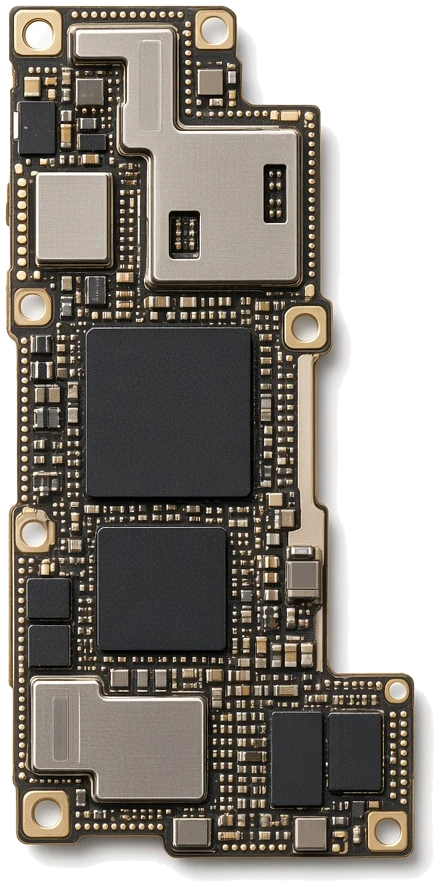
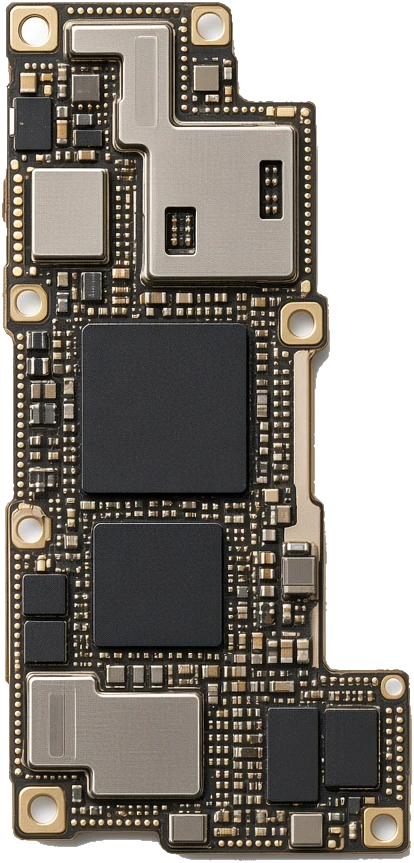
Seat the phone parts in the chassis without the white fringe.
Replace the cut-outs with the halo-free versions and fit each part to the midframe in parent-local millimetres.

diff --git a/content/smartphone.ts b/content/smartphone.ts
@@ -3,8 +3,8 @@ import { paperTheme, type ContentPack } from '../src/theme';
 
 /**
  * Pixel size of a trimmed cut-out, and of the pixels that are actually opaque.
- * A 4px soft margin sits on every side. World size maps the opaque width to
- * millimetres and keeps the file's own aspect.
+ * World size maps an opaque width in millimetres onto that box and keeps the
+ * file's own aspect. These cuts have no soft shadow fringe.
  */
 type Sprite = {
   width: number;
@@ -15,19 +15,19 @@ type Sprite = {
 
 /** `images/smartphone.webp`. The opaque phone is 71.5 mm wide. */
 export const smartphoneSprite = {
-  width: 478,
-  height: 977,
-  opaqueWidth: 470,
-  opaqueHeight: 969,
+  width: 465,
+  height: 951,
+  opaqueWidth: 461,
+  opaqueHeight: 947,
 } as const satisfies Sprite;
 
 export const partSprites = {
-  midframe: { width: 488, height: 985, opaqueWidth: 480, opaqueHeight: 977 },
-  battery: { width: 491, height: 879, opaqueWidth: 483, opaqueHeight: 871 },
-  logicBoard: { width: 439, height: 887, opaqueWidth: 431, opaqueHeight: 878 },
-  cameraModule: { width: 594, height: 521, opaqueWidth: 586, opaqueHeight: 513 },
-  loudspeaker: { width: 439, height: 280, opaqueWidth: 431, opaqueHeight: 272 },
-  hapticMotor: { width: 423, height: 200, opaqueWidth: 415, opaqueHeight: 192 },
+  midframe: { width: 450, height: 943, opaqueWidth: 446, opaqueHeight: 939 },
+  battery: { width: 487, height: 899, opaqueWidth: 483, opaqueHeight: 895 },
+  logicBoard: { width: 414, height: 863, opaqueWidth: 410, opaqueHeight: 859 },
+  cameraModule: { width: 537, height: 500, opaqueWidth: 533, opaqueHeight: 496 },
+  loudspeaker: { width: 383, height: 227, opaqueWidth: 379, opaqueHeight: 223 },
+  hapticMotor: { width: 418, height: 153, opaqueWidth: 418, opaqueHeight: 153 },
 } as const satisfies Record<string, Sprite>;
 
 /** Opaque phone width. World units are millimetres. */
@@ -100,14 +100,14 @@ export const smartphoneObjects: readonly CanvasObject[] = [
     payload: { type: 'group' },
   },
   cutout('midframe', 'images/smartphone/midframe.webp', partSprites.midframe, PHONE_WIDTH_MM, 0, 0, fadeIn, 'internals'),
-  cutout('battery', 'images/smartphone/battery.webp', partSprites.battery, 50, -9.8, 16.6, fadeIn, 'internals'),
+  cutout('battery', 'images/smartphone/battery.webp', partSprites.battery, 40, -12.6, 10.2, fadeIn, 'internals'),
   cutout(
     'logic-board',
     'images/smartphone/logic-board.webp',
     partSprites.logicBoard,
-    26,
+    21,
     19.8,
-    -45.2,
+    -44,
     fadeIn,
     'internals',
   ),
@@ -115,9 +115,9 @@ export const smartphoneObjects: readonly CanvasObject[] = [
     'camera-module',
     'images/smartphone/camera-module.webp',
     partSprites.cameraModule,
-    22,
-    -21.5,
-    -59.5,
+    21,
+    -22,
+    -62.5,
     fadeIn,
     'internals',
   ),
@@ -125,9 +125,9 @@ export const smartphoneObjects: readonly CanvasObject[] = [
     'loudspeaker',
     'images/smartphone/loudspeaker.webp',
     partSprites.loudspeaker,
-    14,
-    -12,
-    65.8,
+    18,
+    -11,
+    66,
     fadeIn,
     'internals',
   ),
@@ -135,9 +135,9 @@ export const smartphoneObjects: readonly CanvasObject[] = [
     'haptic-motor',
     'images/smartphone/haptic-motor.webp',
     partSprites.hapticMotor,
-    15,
-    12,
-    65.8,
+    22,
+    13,
+    66.5,
     fadeIn,
     'internals',
   ),

diff --git a/src/packs.test.ts b/src/packs.test.ts
@@ -80,12 +80,14 @@ describe('smartphone pack', () => {
 
     const parts: Array<[string, { width: number; height: number; opaqueWidth: number; opaqueHeight: number }, number, number, number]> = [
       ['midframe', partSprites.midframe, PHONE_WIDTH_MM, 0, 0],
-      ['battery', partSprites.battery, 50, -9.8, 16.6],
-      ['logic-board', partSprites.logicBoard, 26, 19.8, -45.2],
-      ['camera-module', partSprites.cameraModule, 22, -21.5, -59.5],
-      ['loudspeaker', partSprites.loudspeaker, 14, -12, 65.8],
-      ['haptic-motor', partSprites.hapticMotor, 15, 12, 65.8],
+      ['battery', partSprites.battery, 40, -12.6, 10.2],
+      ['logic-board', partSprites.logicBoard, 21, 19.8, -44],
+      ['camera-module', partSprites.cameraModule, 21, -22, -62.5],
+      ['loudspeaker', partSprites.loudspeaker, 18, -11, 66],
+      ['haptic-motor', partSprites.hapticMotor, 22, 13, 66.5],
     ];
+    const midAuthored = smartphoneObjects.find((object) => object.id === 'midframe');
+    if (!midAuthored || midAuthored.payload.type !== 'image') throw new Error('expected the midframe');
     for (const [id, sprite, opaqueMm, x, y] of parts) {
       const part = smartphoneObjects.find((object) => object.id === id);
       if (!part || part.payload.type !== 'image') throw new Error(`expected ${id}`);
@@ -99,11 +101,10 @@ describe('smartphone pack', () => {
       const partOpaqueWidth = (part.payload.width * sprite.opaqueWidth) / sprite.width;
       const partOpaqueHeight = (part.payload.height * sprite.opaqueHeight) / sprite.height;
       expect(partOpaqueWidth).toBeCloseTo(opaqueMm);
-      expect(part.payload.width / 2).toBeLessThanOrEqual(payload.width / 2);
-      expect(part.payload.height / 2).toBeLessThanOrEqual(payload.height / 2);
-      expect(Math.abs(part.x) + part.payload.width / 2).toBeLessThanOrEqual(payload.width / 2 + 1e-9);
-      expect(Math.abs(part.y) + part.payload.height / 2).toBeLessThanOrEqual(payload.height / 2 + 1e-9);
       expect(partOpaqueHeight / partOpaqueWidth).toBeCloseTo(sprite.opaqueHeight / sprite.opaqueWidth);
+      if (id === 'midframe') continue;
+      expect(Math.abs(part.x) + part.payload.width / 2).toBeLessThanOrEqual(midAuthored.payload.width / 2 + 1e-9);
+      expect(Math.abs(part.y) + part.payload.height / 2).toBeLessThanOrEqual(midAuthored.payload.height / 2 + 1e-9);
     }
   });
 
